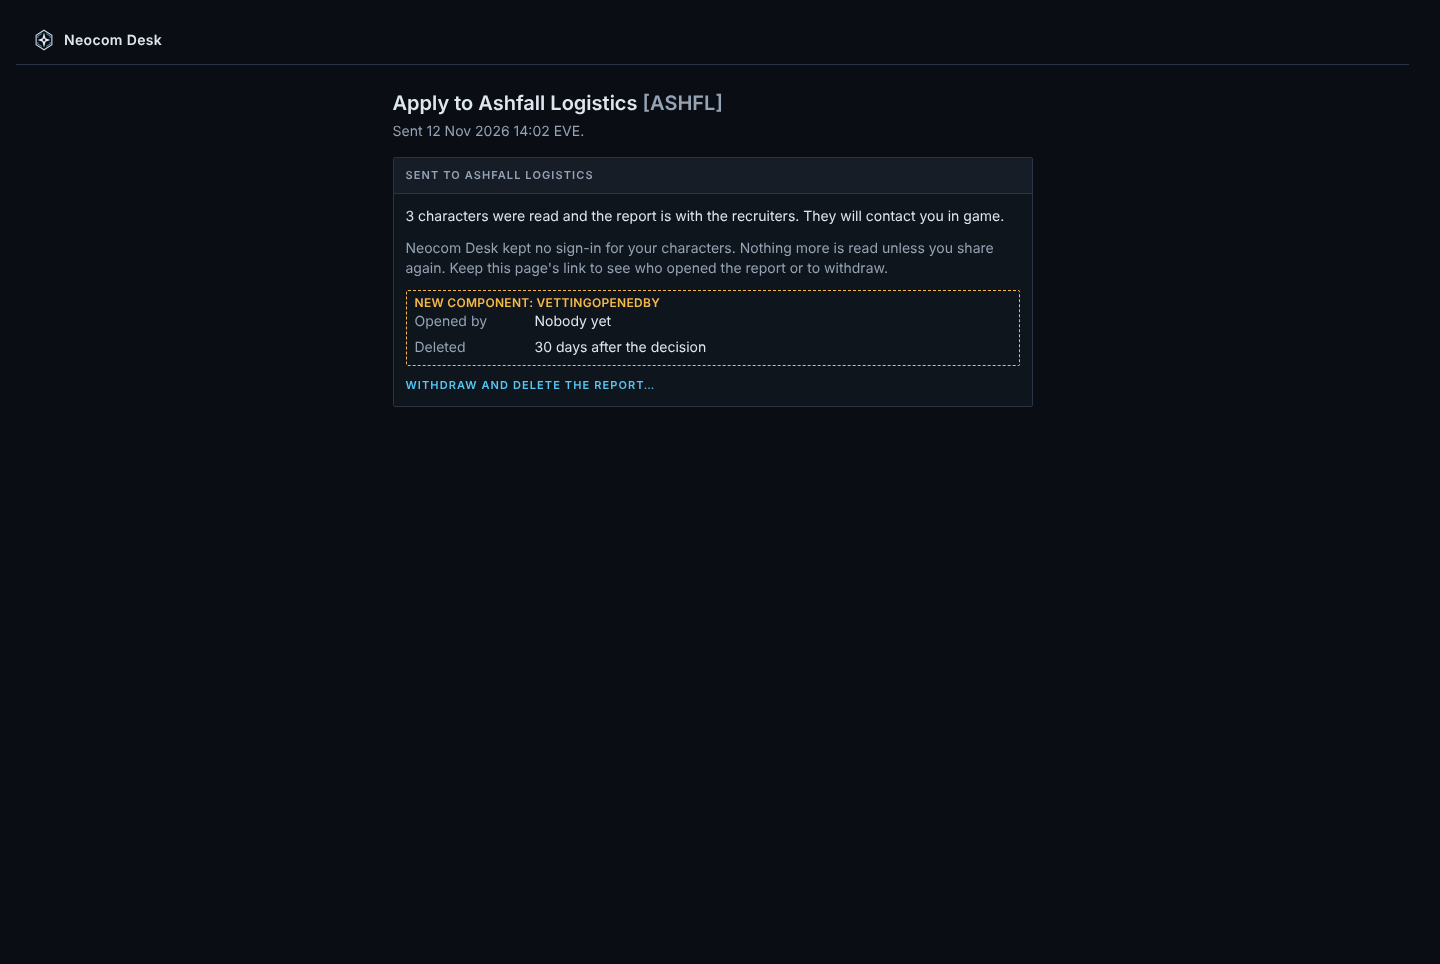
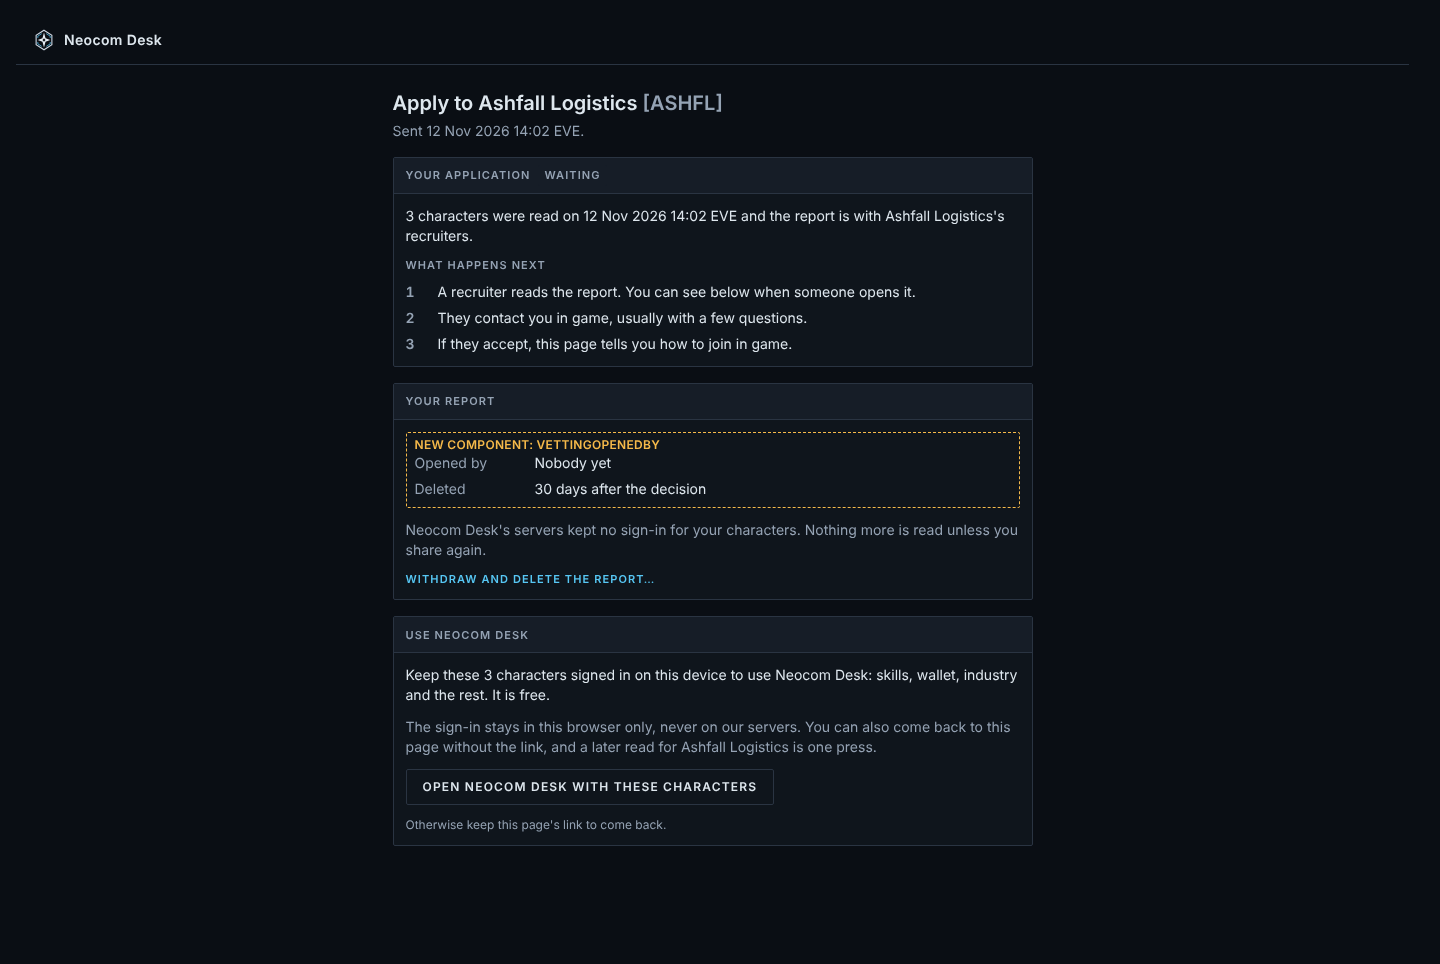
Mockups: vetting application status page
Send lands on a status page (waiting, accepted, in-app variant) with an
opt-in, device-only offer to keep the characters signed in.

Claude-Session: https://claude.ai/code/session_01SLzxhSzBuir8T73TGnHpBZ

diff --git a/src/mockups/vettingApplicantParts.tsx b/src/mockups/vettingApplicantParts.tsx
@@ -282,39 +282,134 @@ export function ApplyCharacters({ characters }: { characters: VettingCharacter[]
   );
 }
 
-/** Step three: sent. Says what was kept, what was not, and how to take it back. */
-export function ApplySent() {
+const NEXT_SENT = [
+  'A recruiter reads the report. You can see below when someone opens it.',
+  'They contact you in game, usually with a few questions.',
+  'If they accept, this page tells you how to join in game.',
+];
+
+const NEXT_ACCEPTED = [
+  `In EVE, open ${CORP.name}'s corporation window and press Apply to join.`,
+  'A recruiter accepts the application in game. Neocom Desk cannot do that step for you.',
+];
+
+/**
+ * The application's status page: where Send lands and what the pilot comes
+ * back to. Status, what happens next, who opened the report, Withdraw, and one
+ * optional offer to keep the characters signed in on this device.
+ */
+function StatusBody({ accepted, inApp }: { accepted?: boolean; inApp?: boolean }) {
   return (
-    <PublicPage>
-      <ApplyHeading sub="Sent 12 Nov 2026 14:02 EVE." />
-      <Panel title={`Sent to ${CORP.name}`}>
+    <>
+      <Panel
+        title="Your application"
+        meta={
+          <Pill tone={accepted ? 'success' : 'neutral'}>{accepted ? 'Accepted' : 'Waiting'}</Pill>
+        }
+      >
         <div className="space-y-3 text-sm">
           <p>
-            3 characters were read and the report is with the recruiters. They will contact you in
-            game.
+            {accepted
+              ? `Kestrel Vane accepted your application to ${CORP.name} on 13 Nov 2026 19:20 EVE.`
+              : `3 characters were read on 12 Nov 2026 14:02 EVE and the report is with ${CORP.name}'s recruiters.`}
           </p>
-          <p className="text-text-dim">
-            Neocom Desk kept no sign-in for your characters. Nothing more is read unless you share
-            again. Keep this page&apos;s link to see who opened the report or to withdraw.
-          </p>
+          <div className="space-y-2">
+            <Eyebrow>What happens next</Eyebrow>
+            <ol className="space-y-1.5">
+              {(accepted ? NEXT_ACCEPTED : NEXT_SENT).map((step, index) => (
+                <li key={step} className="grid grid-cols-[1.5rem_1fr] gap-2">
+                  <span className="font-semibold text-text-dim tabular-nums">{index + 1}</span>
+                  <span>{step}</span>
+                </li>
+              ))}
+            </ol>
+          </div>
+        </div>
+      </Panel>
+      <Panel title="Your report">
+        <div className="space-y-3 text-sm">
           <NewComponent name="VettingOpenedBy">
             <dl className="space-y-1.5">
               <div className="grid grid-cols-[7rem_1fr] gap-2">
                 <dt className="text-text-dim">Opened by</dt>
-                <dd>Nobody yet</dd>
+                <dd>
+                  {accepted ? (
+                    <>
+                      Kestrel Vane
+                      <span className="block text-xs text-text-dim">
+                        12 Nov 15:58 and 13 Nov 19:12
+                      </span>
+                    </>
+                  ) : (
+                    'Nobody yet'
+                  )}
+                </dd>
               </div>
               <div className="grid grid-cols-[7rem_1fr] gap-2">
                 <dt className="text-text-dim">Deleted</dt>
-                <dd>30 days after the decision</dd>
+                <dd>{accepted ? '13 Dec 2026' : '30 days after the decision'}</dd>
               </div>
             </dl>
           </NewComponent>
+          <p className="text-text-dim">
+            Neocom Desk&apos;s servers kept no sign-in for your characters. Nothing more is read
+            unless you share again.
+          </p>
           <button type="button" className={textActionClassName()}>
-            Withdraw and delete the report…
+            {accepted ? 'Delete the report now…' : 'Withdraw and delete the report…'}
           </button>
         </div>
       </Panel>
+      {!inApp && (
+        <Panel title="Use Neocom Desk">
+          <div className="space-y-3 text-sm">
+            <p>
+              Keep these 3 characters signed in on this device to use Neocom Desk: skills, wallet,
+              industry and the rest. It is free.
+            </p>
+            <p className="text-text-dim">
+              The sign-in stays in this browser only, never on our servers. You can also come back
+              to this page without the link, and a later read for {CORP.name} is one press.
+            </p>
+            <div className="flex flex-wrap items-center gap-3">
+              <Button>Open Neocom Desk with these characters</Button>
+              <span className="text-xs text-text-dim">
+                Otherwise keep this page&apos;s link to come back.
+              </span>
+            </div>
+          </div>
+        </Panel>
+      )}
+    </>
+  );
+}
+
+/** Step three on the public page: Send lands here, not on a dashboard. */
+export function ApplySent({ accepted }: { accepted?: boolean }) {
+  return (
+    <PublicPage>
+      <ApplyHeading
+        sub={accepted ? 'Decided 13 Nov 2026 19:20 EVE.' : 'Sent 12 Nov 2026 14:02 EVE.'}
+      />
+      <StatusBody accepted={accepted} />
     </PublicPage>
+  );
+}
+
+/** The same status page for a pilot who already uses the app: inside the shell, no sign-in offer. */
+export function ApplyStatusInApp() {
+  return (
+    <div className="mx-auto max-w-2xl space-y-4 px-4 py-4">
+      <PageHeader
+        title="Application"
+        meta={
+          <span className="text-xs text-text-dim">
+            {CORP.name} [{CORP.ticker}]
+          </span>
+        }
+      />
+      <StatusBody inApp />
+    </div>
   );
 }
 

diff --git a/src/mockups/VettingApplicant.stories.tsx b/src/mockups/VettingApplicant.stories.tsx
@@ -2,6 +2,7 @@ import type { Meta, StoryObj } from '@storybook/react-vite';
 import {
   ApplyCharacters,
   ApplySent,
+  ApplyStatusInApp,
   ApplyStart,
   PHONE,
   PromotionRequest,
@@ -22,8 +23,14 @@ import { APPLICANT_CHARACTERS, MEMBER_CHARACTERS } from './vettingFixtures';
  *   report then says that check could not run.
  * - "These are all my characters" is a statement the applicant makes, with the
  *   reason it matters said plainly.
- * - Send is the one primary action. After it: what was kept, who has opened
- *   the report, and Withdraw.
+ * - Send is the one primary action. It lands on the application's status
+ *   page, not the Overview with a toast: status, what happens next, who has
+ *   opened the report, Withdraw. The page is what the pilot comes back to, and
+ *   after a decision it names the in-game step (the app cannot accept a corp
+ *   application).
+ * - Staying signed in is opt-in: "Open Neocom Desk with these characters"
+ *   keeps the sign-in in this browser only. A pilot who already uses the app
+ *   sees the same status page inside the shell, with no offer.
  * - **Promotion request** (inside the app): who asked and for which role,
  *   characters already signed in on this device are ticked with no second
  *   sign-in, and Decline is a real choice the reviewers are told about.
@@ -61,11 +68,19 @@ export const Characters390: Story = {
   globals: { viewport: PHONE.viewport },
 };
 
-/** @summary Sent: what was kept, who has opened the report, Withdraw. */
+/** @summary Status page Send lands on: waiting, what happens next, who opened the report, Withdraw, optional "Open Neocom Desk". */
 export const Sent1440: Story = { render: () => <ApplySent /> };
-/** @summary Phone: sent. */
+/** @summary Phone: the status page. */
 export const Sent390: Story = {
   render: () => <ApplySent />,
+  globals: { viewport: PHONE.viewport },
+};
+
+/** @summary Status page after the corp accepts: the in-game step, who opened the report, deletion date. */
+export const Accepted1440: Story = { render: () => <ApplySent accepted /> };
+/** @summary Phone: accepted. */
+export const Accepted390: Story = {
+  render: () => <ApplySent accepted />,
   globals: { viewport: PHONE.viewport },
 };
 
@@ -80,5 +95,14 @@ export const Promotion1440: Story = {
 export const Promotion390: Story = {
   parameters: SHELL,
   render: () => <PromotionRequest characters={MEMBER_CHARACTERS} />,
+  globals: { viewport: PHONE.viewport },
+};
+
+/** @summary The status page for a pilot who already uses the app: in the shell, no sign-in offer. */
+export const StatusInApp1440: Story = { parameters: SHELL, render: () => <ApplyStatusInApp /> };
+/** @summary Phone: status page in the app. */
+export const StatusInApp390: Story = {
+  parameters: SHELL,
+  render: () => <ApplyStatusInApp />,
   globals: { viewport: PHONE.viewport },
 };

diff --git a/docs/design/mockups/vetting/README.md b/docs/design/mockups/vetting/README.md
@@ -6,7 +6,8 @@ and sign-offs. Covers a new applicant and a member's review before a promotion.
 
 | Screen | Files (`-1440` / `-390`) | Shows |
 |---|---|---|
-| Apply link | `applicant-start`, `applicant-characters`, `applicant-sent` | Public page, no account: how it works and what is shared before the sign-in; character list with a "Part missing" row; all-my-characters statement; sent, who opened it, Withdraw |
+| Apply link | `applicant-start`, `applicant-characters` | Public page, no account: how it works and what is shared before the sign-in; character list with a "Part missing" row; all-my-characters statement |
+| Status page | `applicant-sent`, `applicant-accepted`, `applicant-status-in-app` | Where Send lands: status, what happens next, who opened the report, Withdraw, optional "Open Neocom Desk with these characters"; accepted state with the in-game step; the same page in the shell for an existing pilot |
 | Promotion request | `applicant-promotion` | In the app: who asked and for which role, characters already signed in ticked, Share or Decline |
 | Queue | `review-queue`, `review-empty` | Applications and promotions in one list, result in words, sign-offs with "Yours needed" |
 | Report | `review-flagged`, `review-nothing-found`, `review-promotion` | Result line, flags with the rows behind them, could-not-check, checks that found nothing, decision rail; promotion adds "Since the last review", "In this corp" and two sign-offs |
@@ -17,6 +18,7 @@ and sign-offs. Covers a new applicant and a member's review before a promotion.
 - **No Accept or Reject in the queue.** A row click opens the report; the decision is made there.
 - **Mail is who and subject, never the body.**
 - **The second reviewer does not see the first decision** until they record their own. Whoever asked for a promotion review cannot sign it off.
+- **Send lands on the status page, not Overview with a toast.** Staying signed in is opt-in and device-only.
 - **The pilot sees who opened the report** and can withdraw; the report is deleted 30 days after the decision.
 
 ## Mobbin references
@@ -25,7 +27,7 @@ and sign-offs. Covers a new applicant and a member's review before a promotion.
 - Criterion with its evidence: [Juicebox](https://mobbin.com/screens/e19baf87-c4dd-4dbf-820c-6b2e61fd0b1c) (profile, why it matched, decision rail), [Pin](https://mobbin.com/screens/8d884daa-d283-41a7-ad45-342d18e5c433) (one sentence per check).
 - Approvals: [Aboard](https://mobbin.com/screens/5a056ef3-207c-4aec-a921-03eb98ee2788) (next approver in the list), [Canva](https://mobbin.com/screens/476563dd-d2bd-418e-8ddf-8ba75b6130c8) (reviewers column), [Whop](https://mobbin.com/screens/4ebc9b40-33f8-4c0a-bd3a-f64f44c10825) (case timeline).
 
-Not drawn: the Decided and Watchlist tabs, the Reject, Object and Decline dialogs, "Review a member…",
+Not drawn: an Overview entry for an existing pilot's application, the Decided and Watchlist tabs, the Reject, Object and Decline dialogs, "Review a member…",
 and the Vetting nav item (the shell shows no rail in these stories). The phone promotion request shows the
 shell's sample broker-fee banner, which is not part of the proposal.
 
